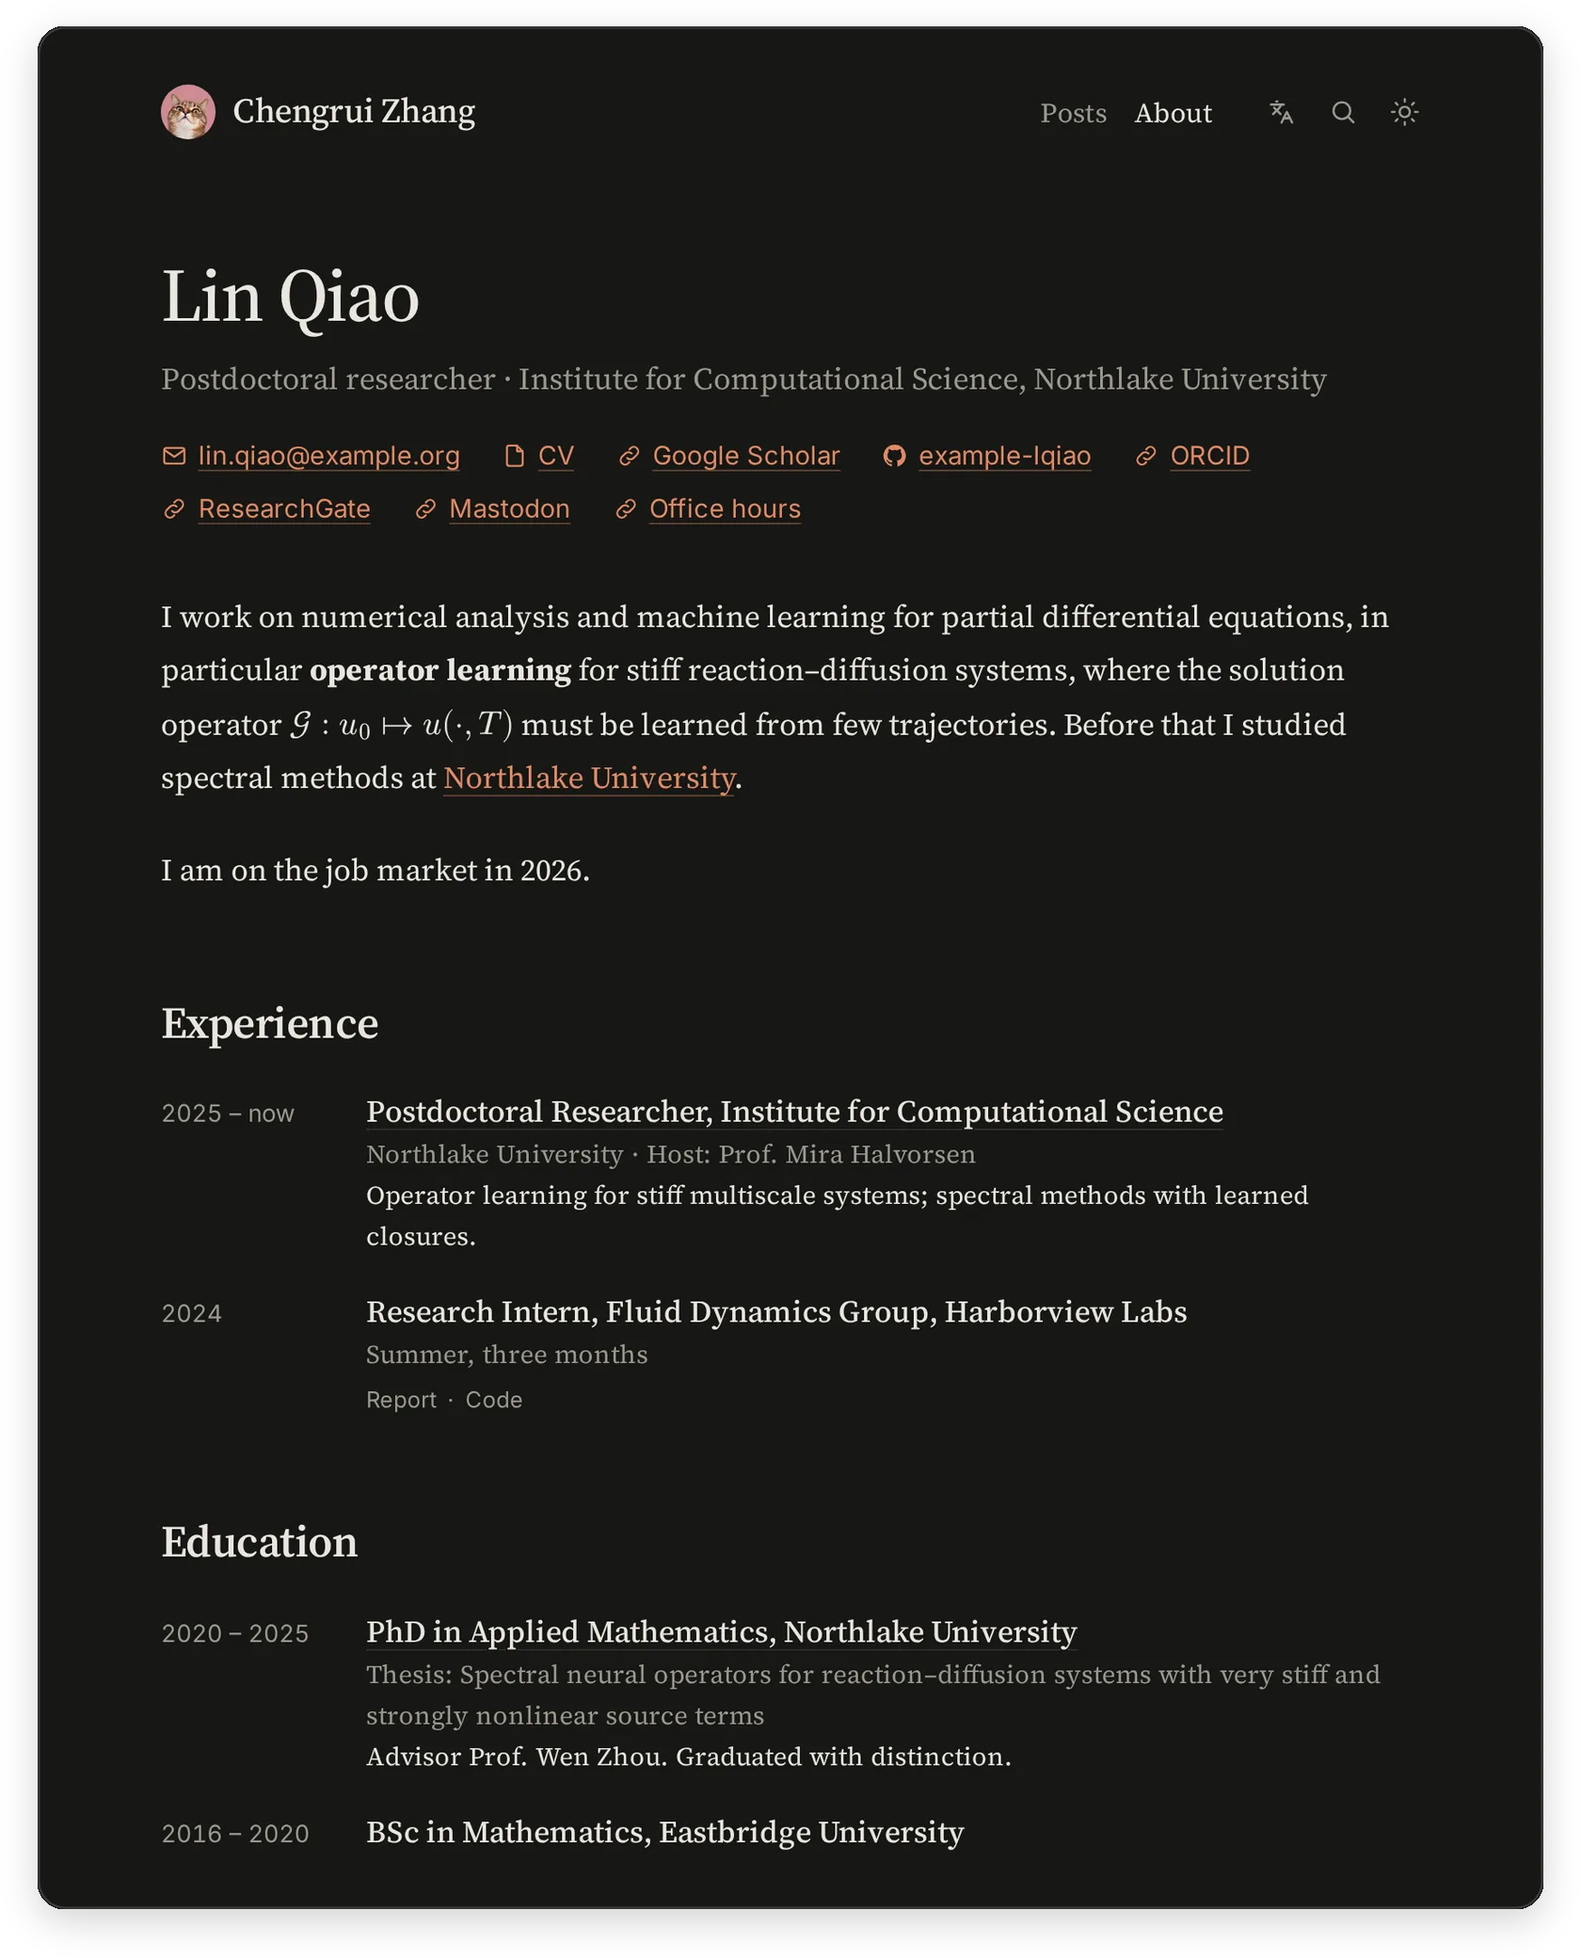
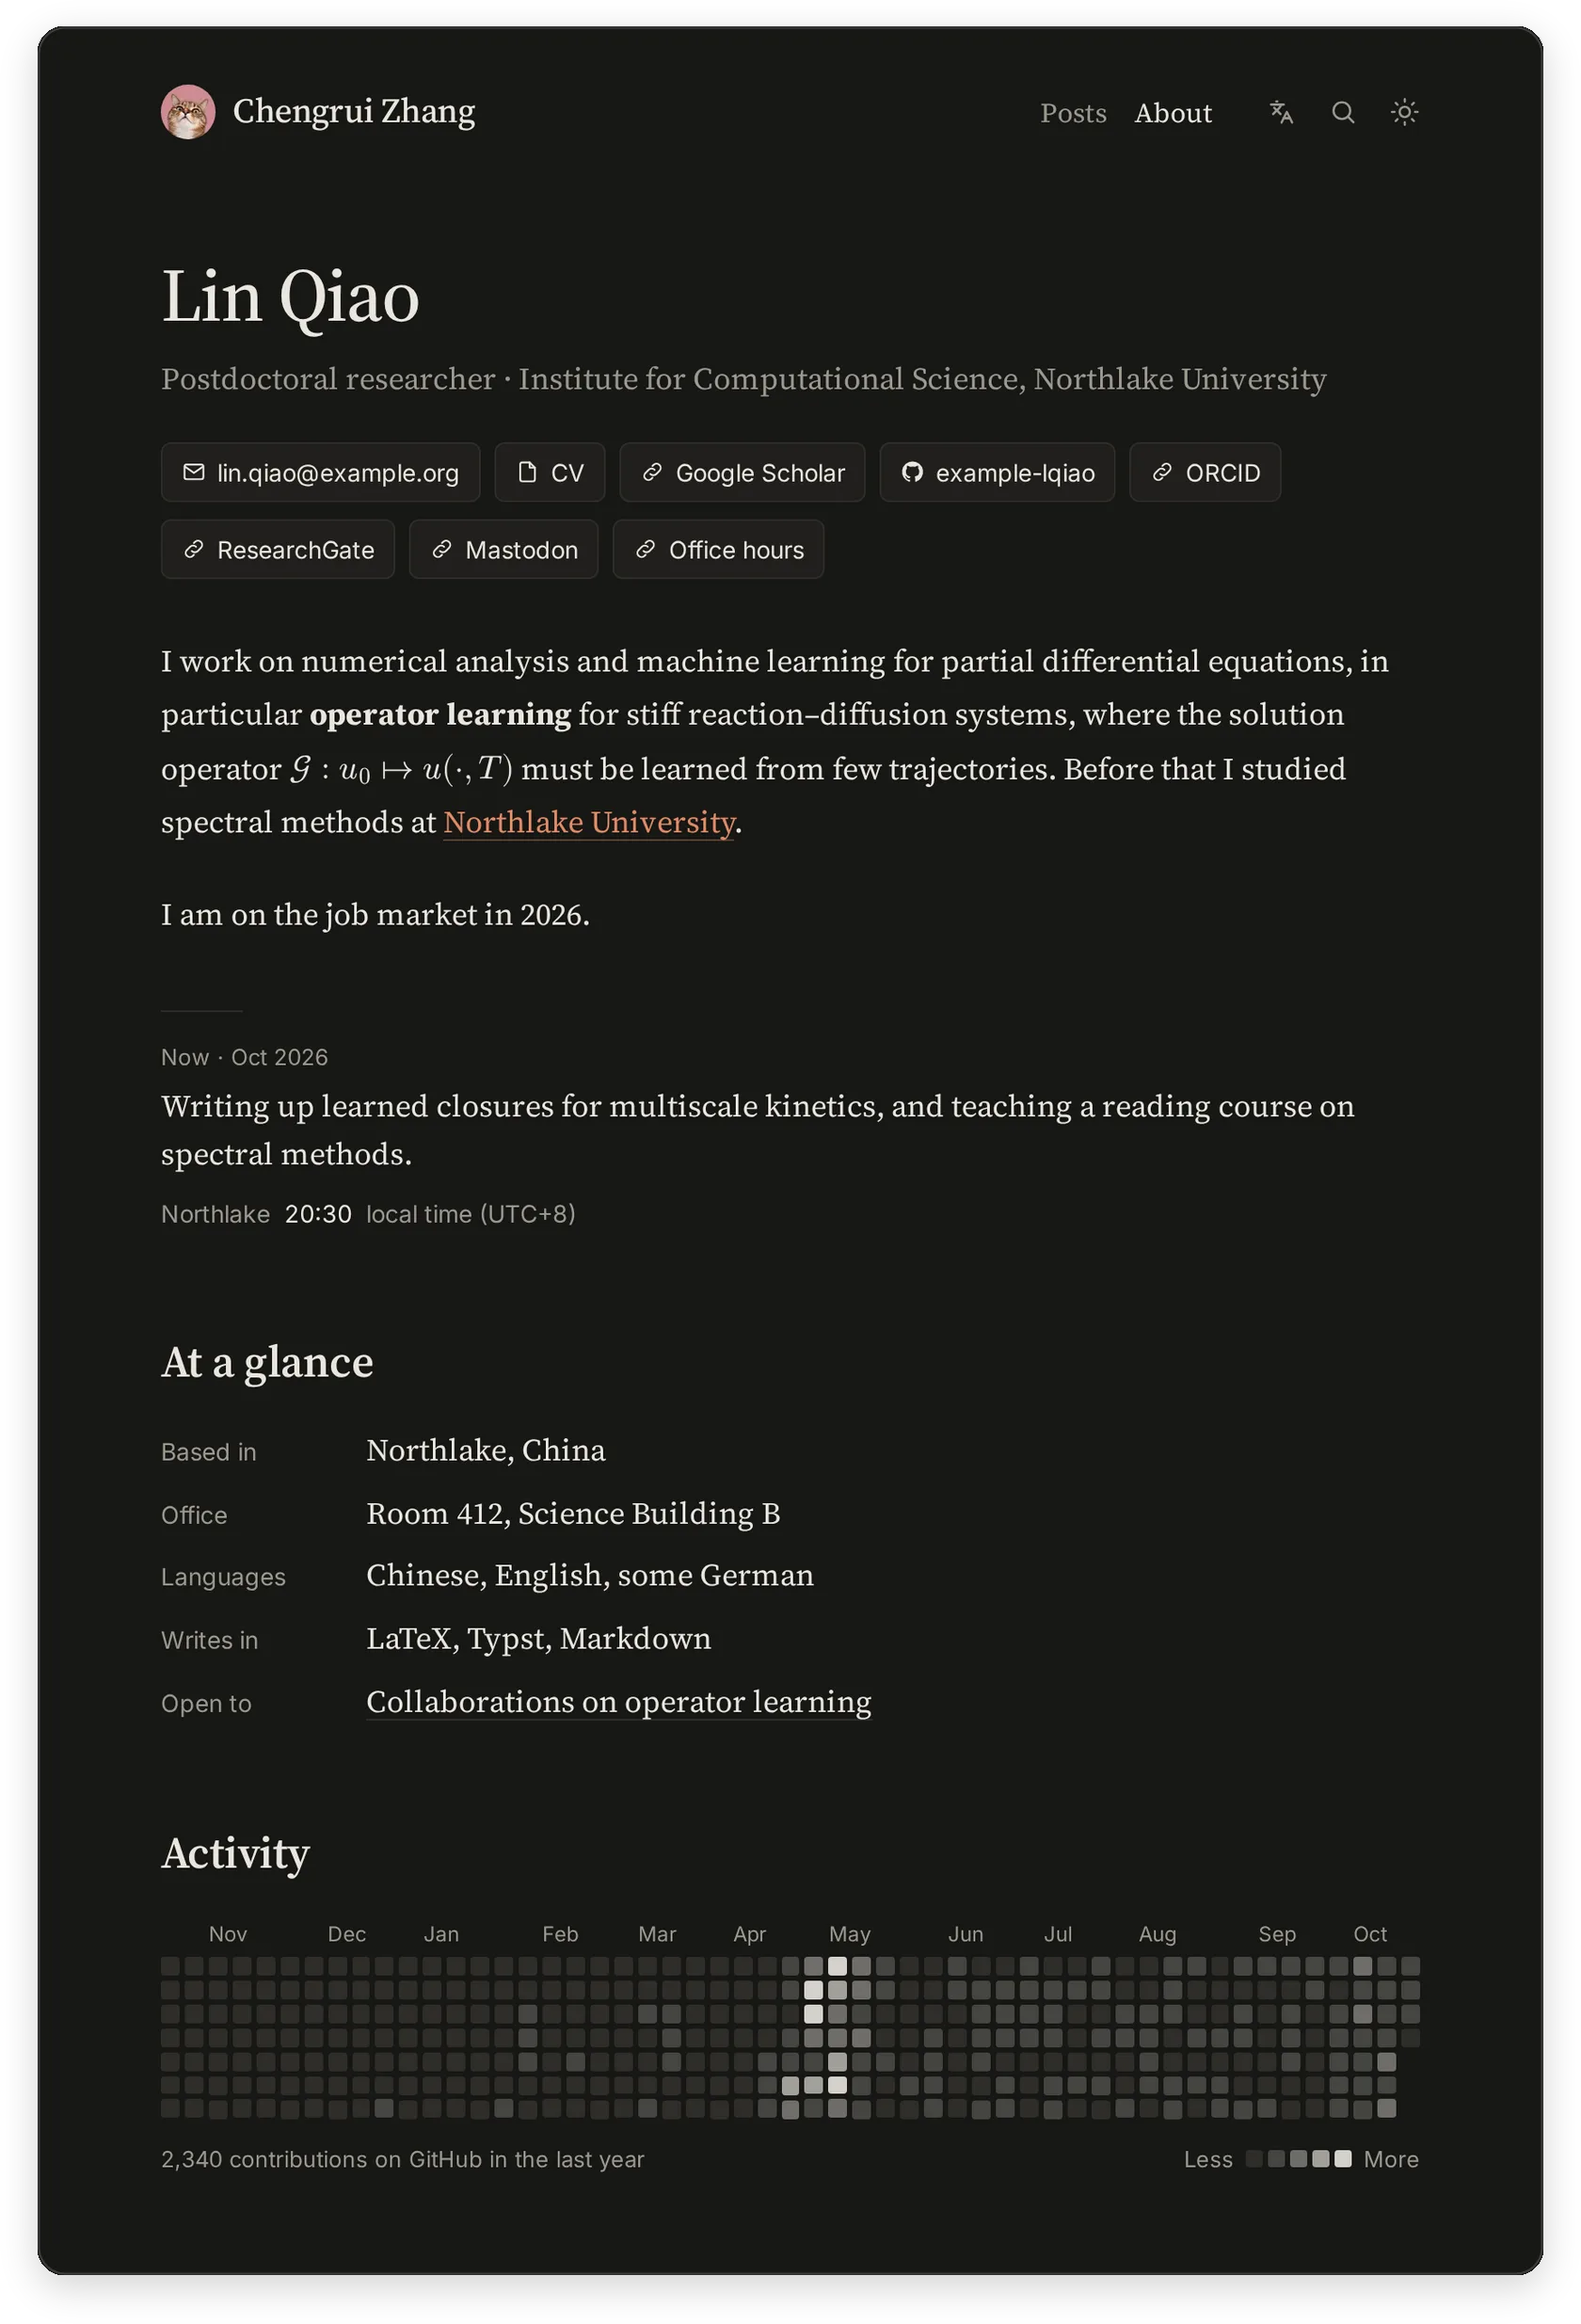
docs: retake the About screenshots with the new blocks

diff --git a/README.md b/README.md
@@ -146,7 +146,7 @@ Write `.md`, not `.mdx`: MDX reads `{`, `}` and `<` as JSX and breaks TeX. The b
 
 <picture>
   <source media="(prefers-color-scheme: dark)" srcset="docs/img/about-dark.webp">
-  <img src="docs/img/about-light.webp" alt="The About page of the sample profile: name, contact links, bio and dated entries" width="800">
+  <img src="docs/img/about-light.webp" alt="The About page of the sample profile: name, contact buttons, bio, a now block, facts and a GitHub activity heatmap" width="800">
 </picture>
 
 `/about/` and `/en/about/` are built from `src/content/about/`, a folder that holds content only:
